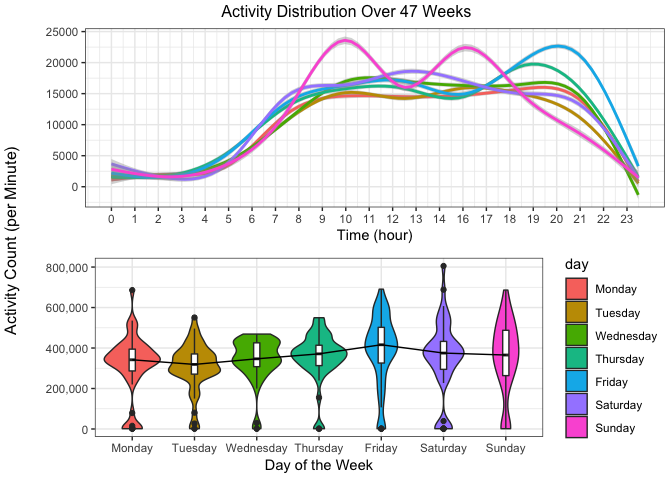
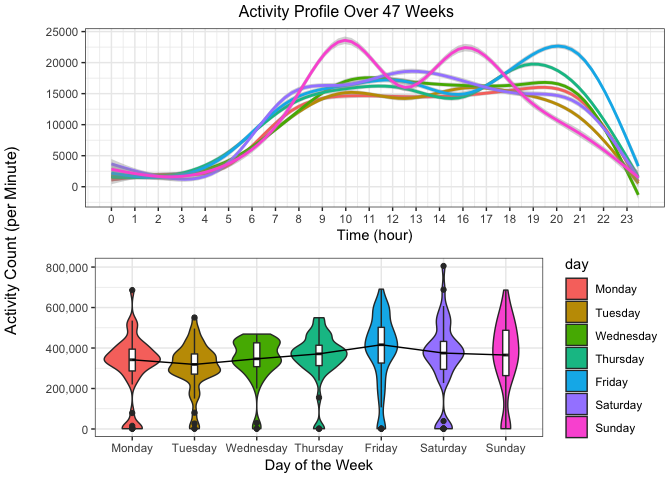
added best fit line and results

Changed region(s): [[0.3125, 0.0, 0.7188, 0.0625]]

diff --git a/p8105_mtp_tt2714.md b/p8105_mtp_tt2714.md
@@ -23,7 +23,7 @@ individual became more active over time. The average activity count for
 the whole duration of the study is approximately 240. The maximum
 activity count occured on a Sunday at hour 16.
 
-### Activity distribution across time and week
+### Activity profile across time and week
 
 ``` r
 activity_day = clean_data %>% 
@@ -50,8 +50,7 @@ dist_timeplot = ggplot(activity_time, aes(x = time, y = activity, color = day)) 
 ```
 
 ``` r
-grid.arrange(dist_timeplot, dist_dayplot, top = "Activity Distribution Over 47 Weeks", 
-             left = "Activity Count (per Minute)")
+grid.arrange(dist_timeplot, dist_dayplot, top = "Activity Profile Over 47 Weeks", left = "Activity Count (per Minute)")
 ```
 
 ![](p8105_mtp_tt2714_files/figure-gfm/unnamed-chunk-2-1.png)<!-- -->
@@ -80,17 +79,21 @@ ggplot(clean_data %>% group_by(week) %>% select(-time, -day) %>% summarise_all(f
        aes(x = week, y = activity, group = 1, color = "red")) + 
   geom_point() + geom_line() + scale_x_discrete(breaks = seq(1, 47, by = 4)) +
   scale_y_continuous(breaks = seq(0, 5000000, by = 500000)) + 
-  labs(title = "Average Activity per week", x = "Week", y = "Activity Count (per Minute)") +
-  theme_bw() + theme(legend.position = "none") + 
-  geom_smooth(method = "lm", se = FALSE, color = "navyblue", size = 0.5, linetype = 2)
+  labs(title = "Average Activity per week", x = "Week", 
+       y = "Activity Count (per Minute)") + 
+  geom_smooth(method = "lm", se = FALSE, color = "navyblue", 
+              size = 0.5, linetype = 2) + 
+  stat_poly_eq(formula = "y ~ x", aes(label = paste(..eq.label..,..rr.label.., sep = "~~~")), parse = TRUE, size = 3, color = "navyblue") +
+  theme_bw() + theme(legend.position = "none")
 ```
 
 ![](p8105_mtp_tt2714_files/figure-gfm/average%20activity%20per%20week%20\(1-47\)-1.png)<!-- -->
 
 The average activity count is computed across 24 hours of each day for
-each week. We do see drastic decrease during week 3 and week 12, but the
+each week. We do see drastic decrease in week 3 and week 12, but the
 individual was able to get back on track and eventually improve his
-activity count by week 47.
+overall activity count by week 47. With the best fit line, we see a
+positive slope of 28000 in activity counts.
 
 ### Activity on selected weeks
 
@@ -116,19 +119,27 @@ week_plot2 = ggplot(week_analysis %>% select(-day) %>%
 ```
 
 ``` r
-grid.arrange(week_plot2, week_plot1, top = "Further Analysis on Activity Distribution", left = "Activity Count (per Minute)")
+grid.arrange(week_plot2, week_plot1, top = "Activity Profile on Selected Weeks", left = "Activity Count (per Minute)")
 ```
 
 ![](p8105_mtp_tt2714_files/figure-gfm/unnamed-chunk-3-1.png)<!-- -->
 
-We are not able to extract that much information from the simple average
-activity count plot, so let’s take a look at 4 particular weeks.
-Activity distribution over time shows a greater improvement for week 47
-during the hours of 8 and 18. Other hours through the day seem much more
-variable. While there is visiable improvement for week 47, the other 3
-weeks does not seem to show much difference in distribution.
+We are unable to extract much information from the simple average
+activity per week plot, so let’s take a look at 4 particular weeks in
+detail. Activity distribution over time shows a greater improvement in
+week 47 during the hours of 8 and 18. Other hours through the day seem
+much more variable. While there is visiable improvement in week 47, the
+other 3 weeks does not seem to show much difference in distribution.
 
 Activity distribution over days of the week show more activity in week
 47 for Tuesday and Sundays. Week 15 and 30 also appear as the largest
-activity count compared to other weeks for a given day. Week 1 remains
-under the maximum average activity count for all days of the week.
+activity count when compared to other weeks for a given day. Week 1
+remains under the maximum average activity count for all days of the
+week.
+
+### Results
+
+After 47 weeks, the individual improved his activity level by
+approximately 28000 counts. It is difficult to access whether activity
+level improved for all days of the week by the end of week 47. It may be
+helpful to study the cumulative distribution at different time points.
